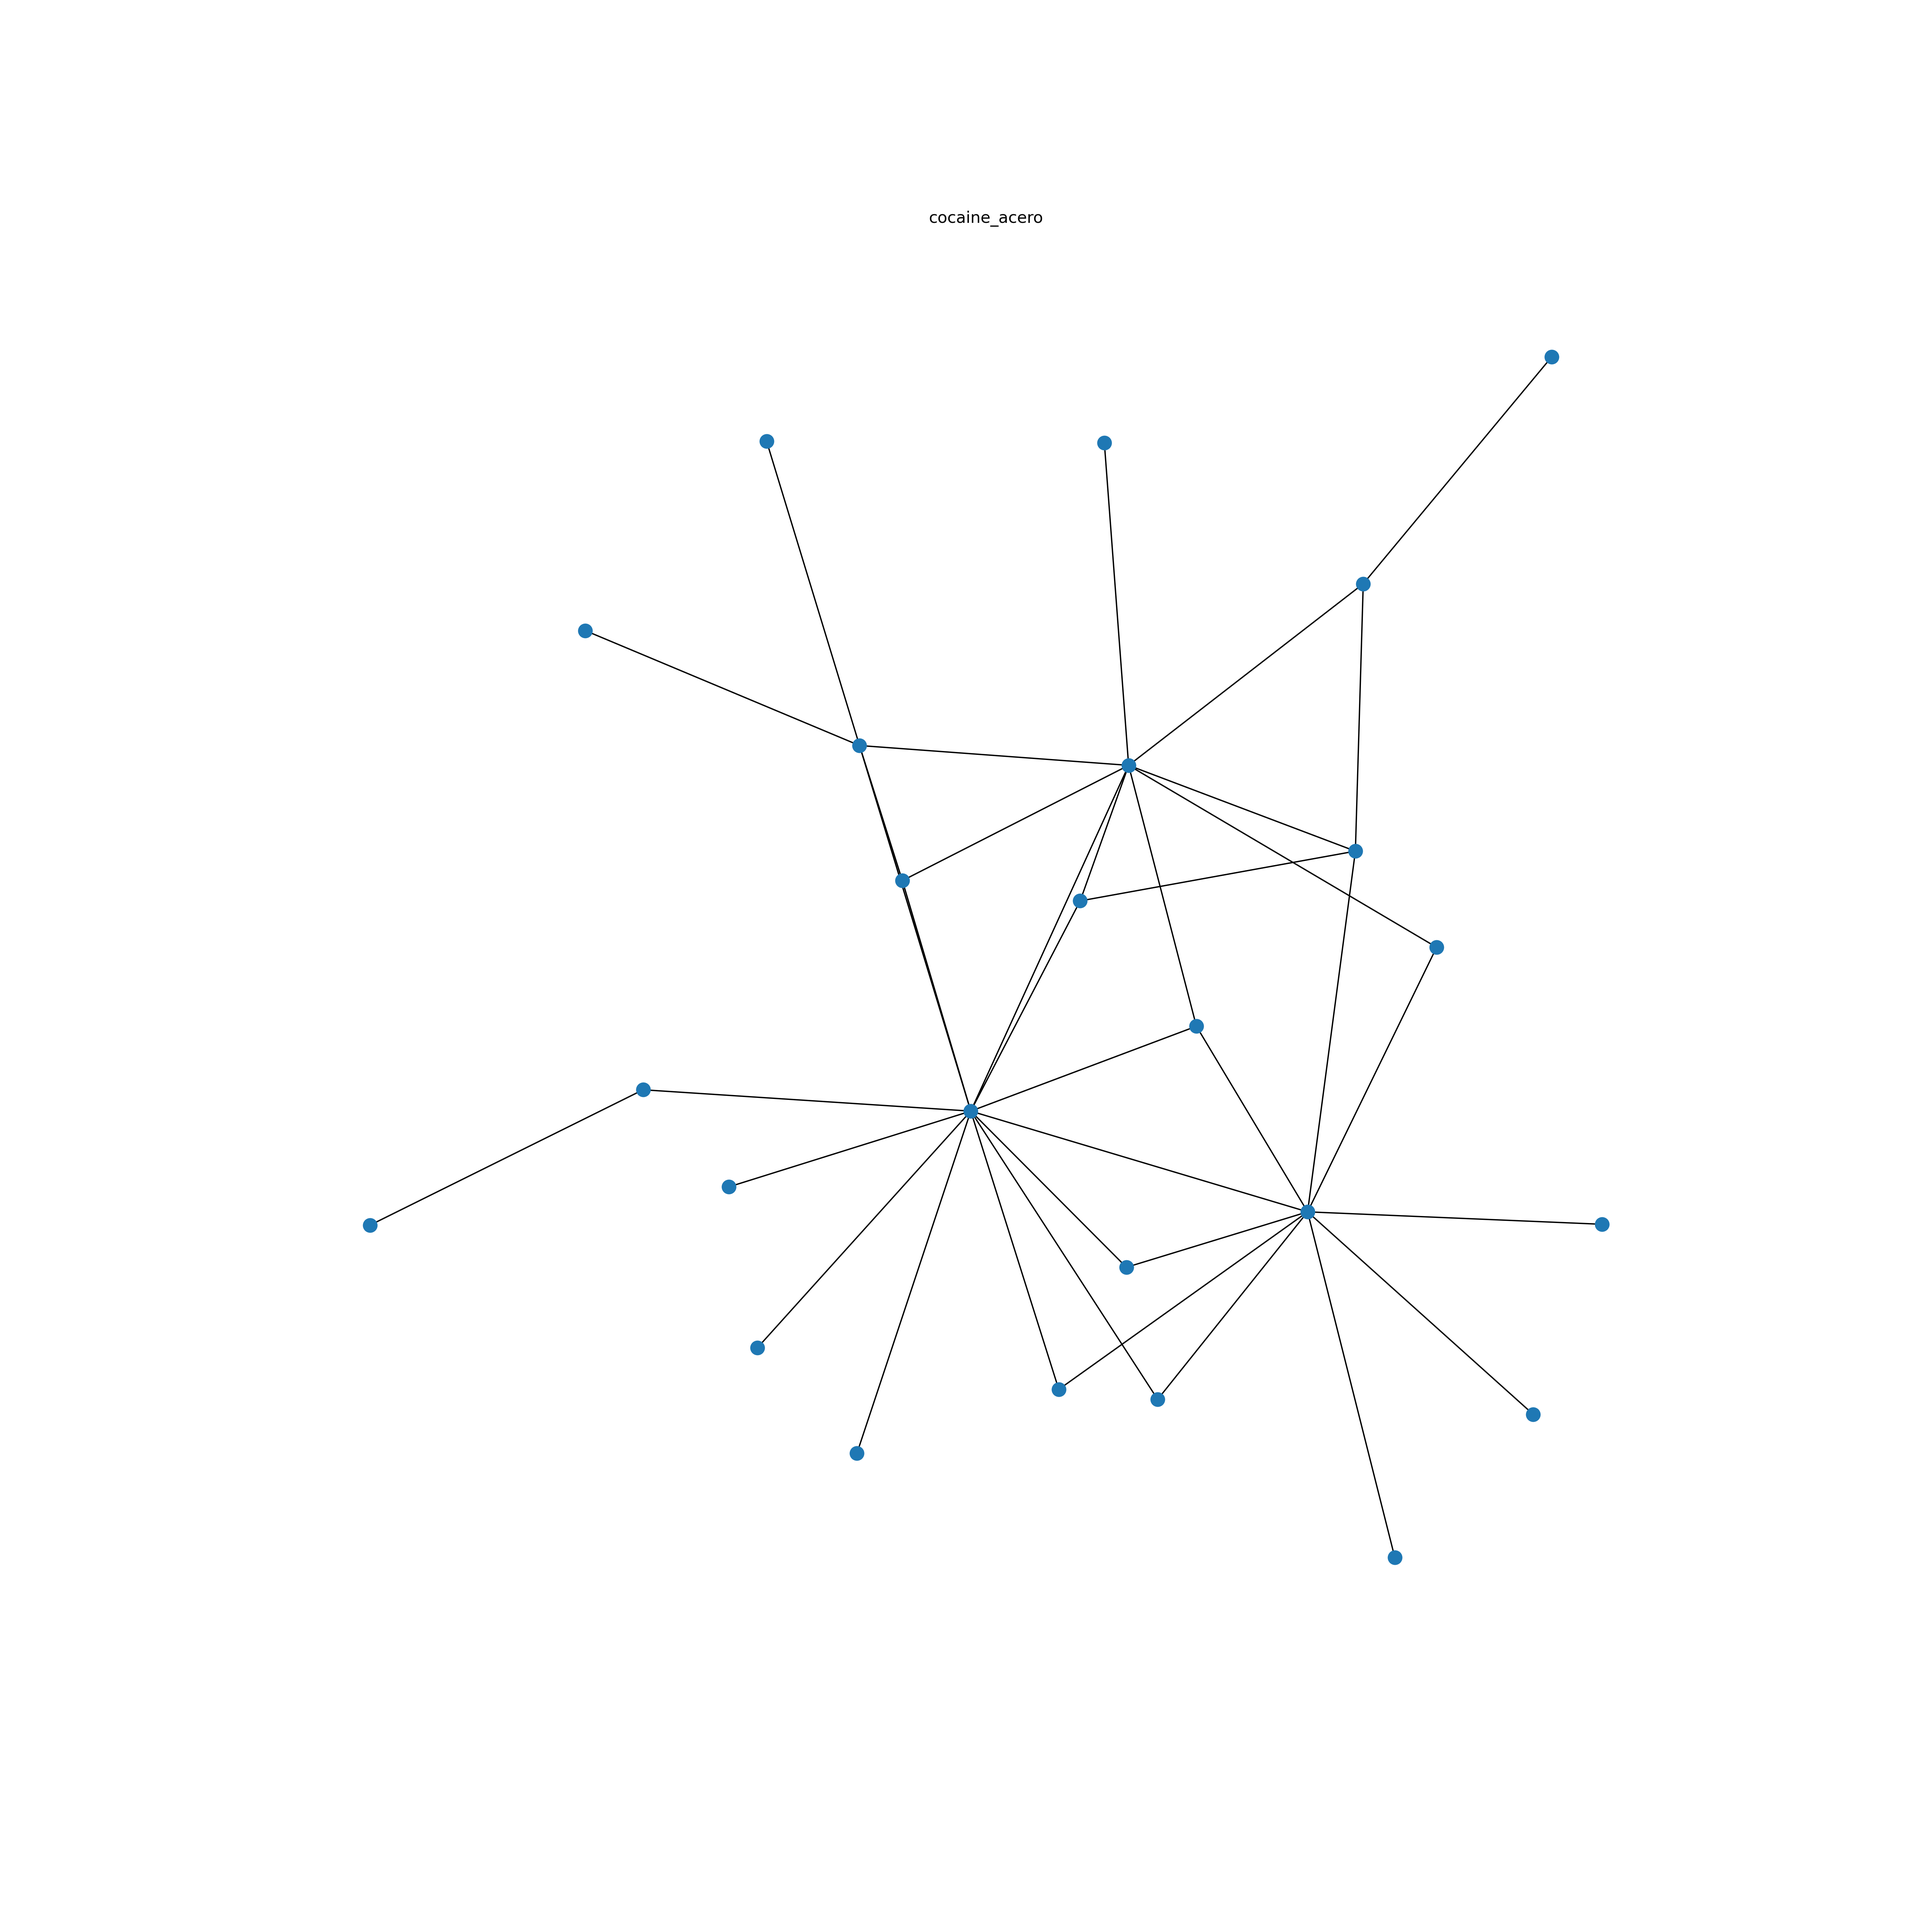
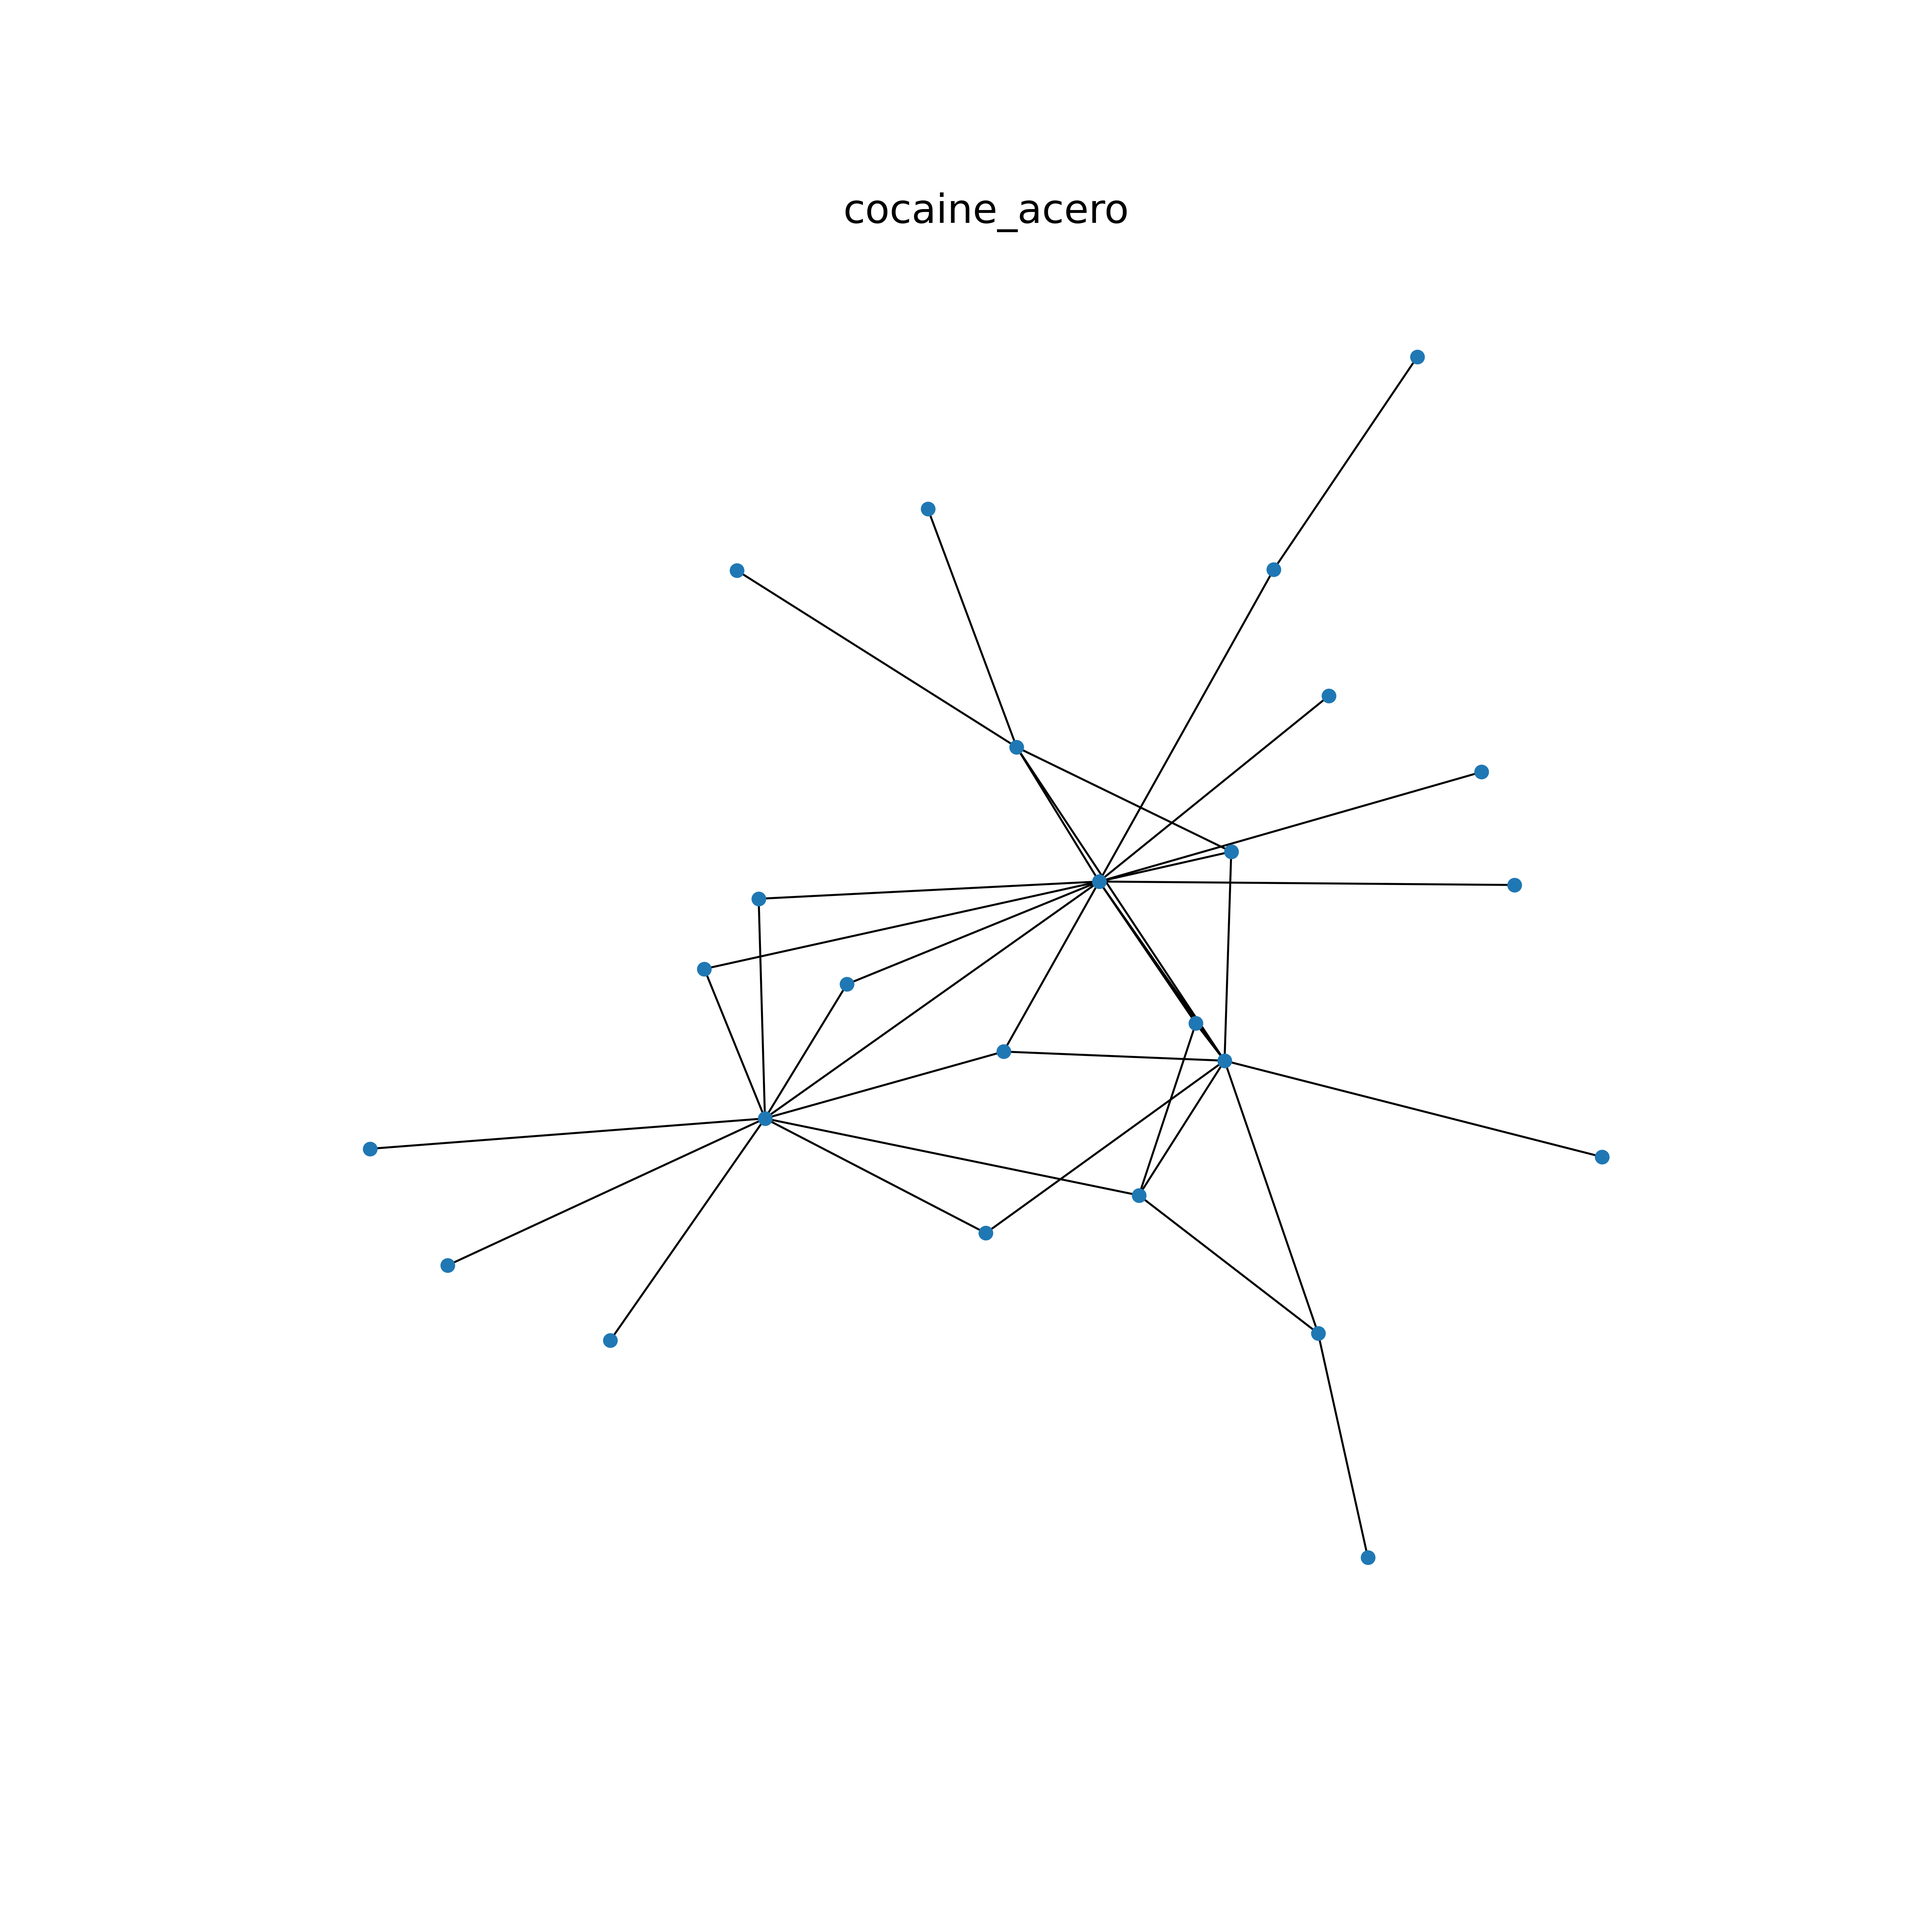
Adjusted plotting of edge widths and layout. Added largest_component functionality.

diff --git a/final_project/crime_networks.py b/final_project/crime_networks.py
@@ -83,13 +83,14 @@ def load_nx_graph(df, graph_name=""):
     graph.graph["name"] = graph_name
     return graph
 
-def plot_nx_graph(graph, weighted = False, weight_multiplier = 1, remove_isolated = False, save=False, savepath = "", **plot_options):
+def plot_nx_graph(graph, weighted = False, weight_multiplier = 1, largest_component = False, remove_isolated = False, save=False, savepath = "", **plot_options):
     '''
     Plot network x graph helper function.
     Args:
         graph: Network X Graph Object
         weighted: Boolean. If true, plot edge widths based on edge weight.
         weight_multiplier: Adjust the width of the edges if using weighted plotting
+        largest_component: Boolean. If true only plots the largest component
         remove_isolated: Boolean. Removes isolated nodes from the graph before plotting
         save: Boolean. If true will save the graph using it's name.
         savepath: Dirpath to save the graph
@@ -98,15 +99,19 @@ def plot_nx_graph(graph, weighted = False, weight_multiplier = 1, remove_isolate
         Matplotlib figure
     '''
     g = graph.copy()
-    if remove_isolated:
+    if largest_component:
+        g = g.subgraph(max(nx.connected_components(g)))
+    elif remove_isolated:
         g.remove_nodes_from(list(nx.isolates(g)))
     fig, ax = plt.subplots(figsize=(20, 20))
     ax.set_axis_off()
-    ax.set_title(g.graph["name"])
-    if weighted:
-        weights = np.array(list(nx.get_edge_attributes(g, "weight").values())) * weight_multiplier
+    ax.set_title(g.graph["name"],fontsize=30)
+    if weighted: #Should maybe include some sort of standardization of edge widths like min-max scale
+        weights = np.array(list(nx.get_edge_attributes(g, "weight").values()))
+        weights = (weights - weights.min()+1)/(weights.max()+1) * weight_multiplier
         plot_options.update({"width":weights})
-    nx.draw_kamada_kawai(g, ax=ax, **plot_options)
+    pos = nx.drawing.layout.spring_layout(g, k=0.5 / np.sqrt(len(g.nodes)))
+    nx.draw(g, ax=ax, pos=pos, **plot_options)
     if save:
         fig.savefig(os.path.join(savepath, f'{g.graph["name"]}.png'), dpi =300)
     return fig
@@ -144,11 +149,13 @@ network_graphs = read_all_network_data(network_data_dir)
 
 #%%
 figs = [
-    plot_nx_graph(graph, 
-        weighted=True, weight_multiplier = 1, remove_isolated=True, 
+    plot_nx_graph(graph, weighted=True, weight_multiplier = 3, 
+        largest_component=True, remove_isolated=True, 
         save=True, savepath = savepath, 
         node_size=100)
     for graph in network_graphs
 ]
 
 # %%
+#Paul revere dataset has many self loops indicating total participation at events? Dataset is colocation of 
+#at events so maybe not the best set if there are only 12 events or so
